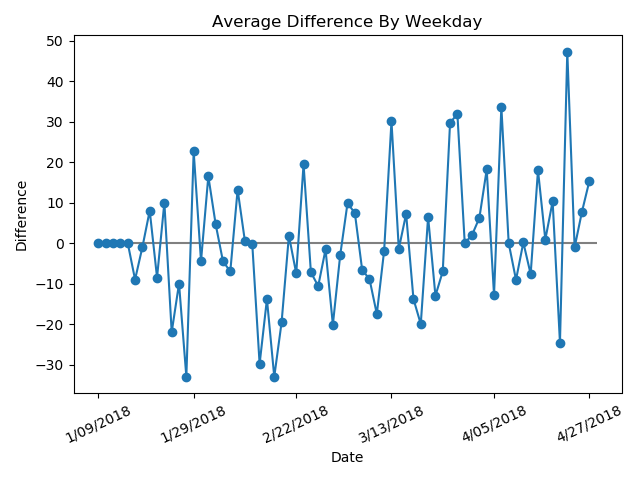
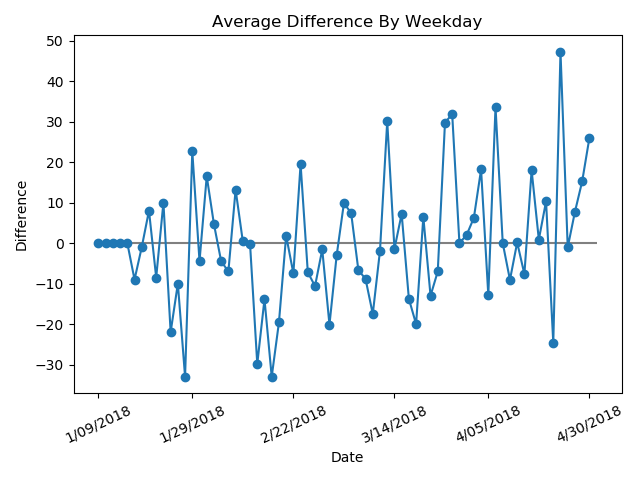
update 4/30

diff --git a/pjeej.py b/pjeej.py
@@ -71,7 +71,8 @@ with open("timein.csv","a",newline="") as csvfile:
 	# writer.writerow(["4/23/2018","Monday","9:19", "54"])
 	# writer.writerow(["4/24/2018","Tuesday","8:48", "51"]) #[18]
 	# writer.writerow(["4/25/2018","Wednesday","9:06", "55"])
-	writer.writerow(["4/27/2018","Friday","9:03", "52"])
+	# writer.writerow(["4/27/2018","Friday","9:03", "52"])
+	writer.writerow(["4/30/2018","Monday","9:00", "48"])
 # [1] according to him, left at 8:30 night before 1/12/2018
 # [2] came in before I did 1/15
 # [3] did not check temperature until 9:50 1/15
@@ -90,3 +91,4 @@ with open("timein.csv","a",newline="") as csvfile:
 # [16] came in before I did 4/09
 # [17] went with the dive team early the day before 
 # [18] estimate based on when I got back into the room (8:50) and he only had the desktop open
+# [19] estimate - he came in between 8:55 and 9:10
